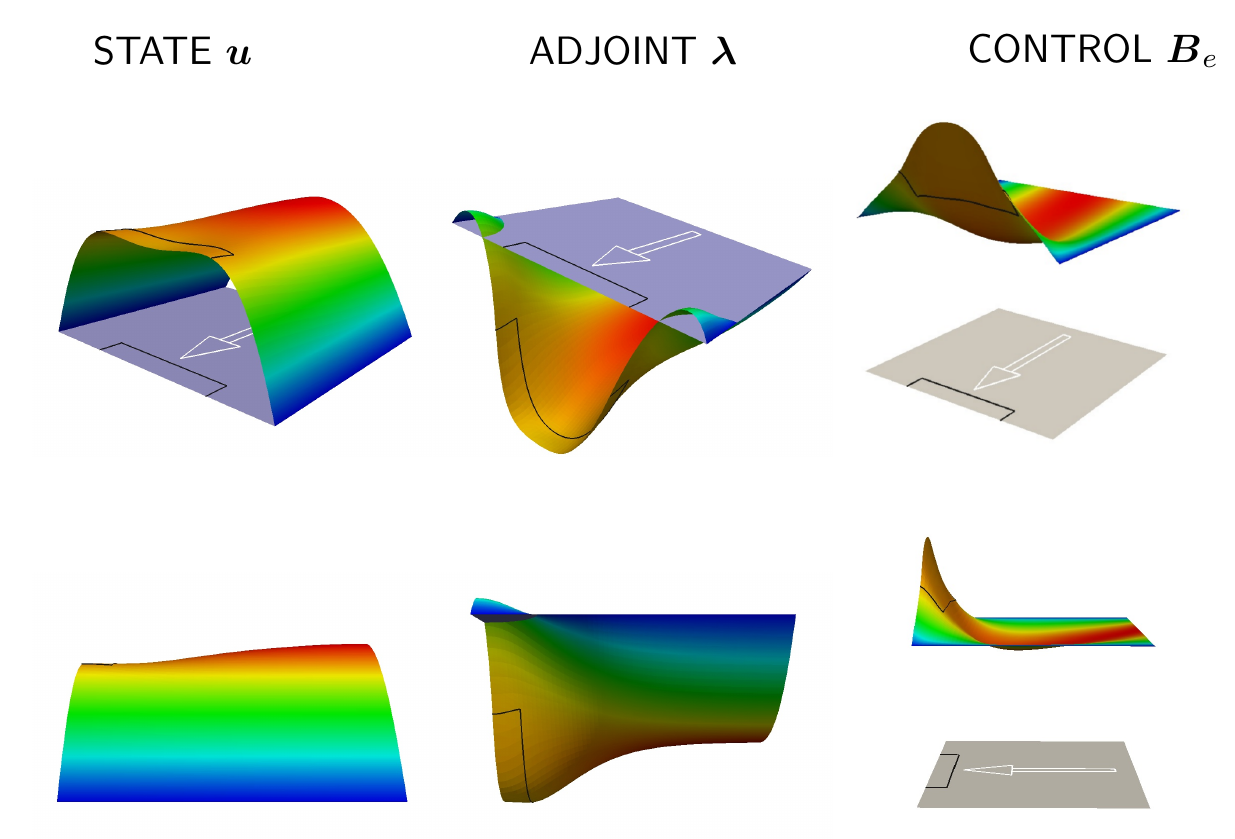
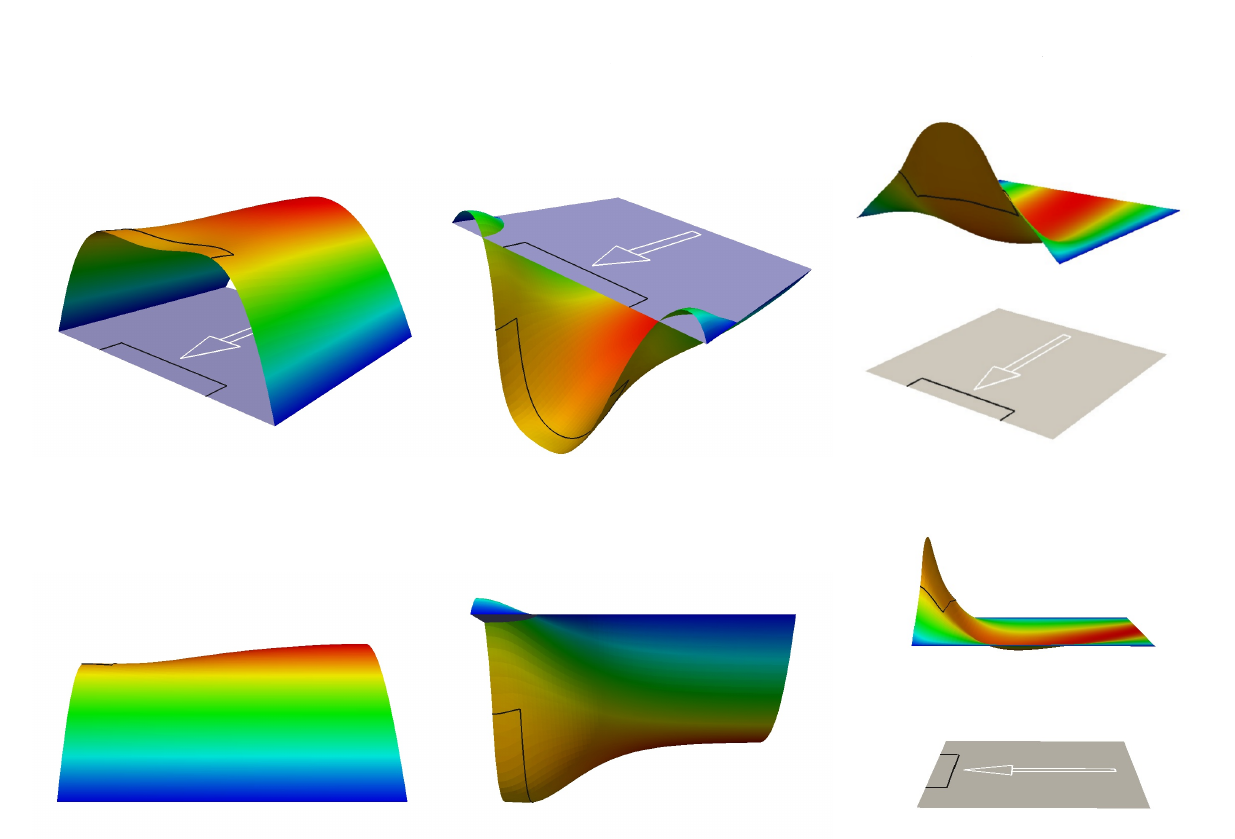
changed size of pictures

diff --git a/index.html b/index.html
@@ -91,7 +91,7 @@
           <div class="container">
             <div class="carousel-caption">
               <h1>Fluid Structure Interaction</h1>
-              <p>Monolithic ALE FEM.</p>
+              <p>Monolithic ALE FEM - FSI Turek-Hron Benchmark</p>
               <p><a class="btn btn-lg btn-primary" href="#" role="button">Learn More</a></p>
             </div>
           </div>
@@ -100,8 +100,8 @@
           <img class="second-slide" src="images/prova1.jpg" alt="Second slide">
           <div class="container">
             <div class="carousel-caption">
-              <h1>Navier Stokes</h1>
-              <p>Coupled Velocity pressure</p>
+              <h1>Fluid Structure Interaction</h1>
+              <p>Monolithic ALE FEM - Wave propagation in a compliant vessel</p>
               <p><a class="btn btn-lg btn-primary" href="#" role="button">Learn more</a></p>
             </div>
           </div>
@@ -111,7 +111,7 @@
           <div class="container">
             <div class="carousel-caption">
               <h1>Optimal Control</h1>
-              <p>Coupled Optimal Control Problems.</p>
+              <p>Coupled Optimal Control Problems in MHD</p>
               <p><a class="btn btn-lg btn-primary" href="#" role="button">Browse gallery</a></p>
             </div>
           </div>
